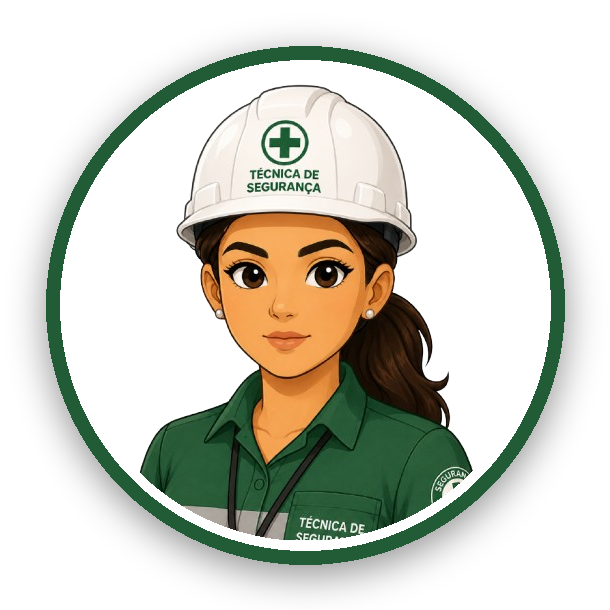
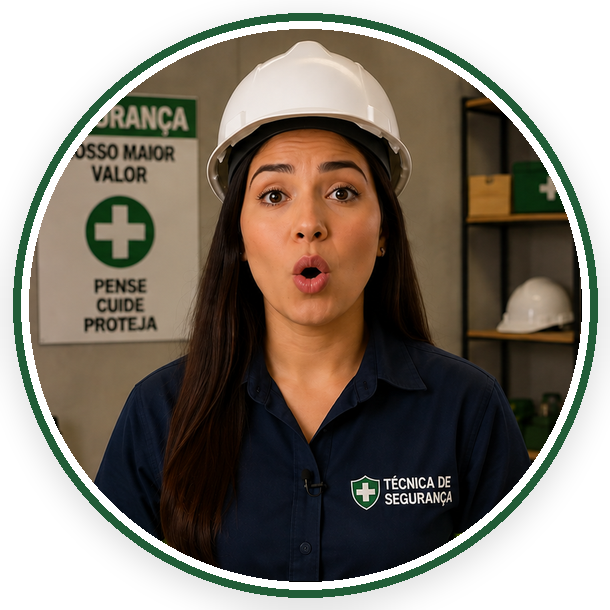
Atualiza mascote: novas fotos com mais expressões, alterna boca aberta

diff --git a/src/lib/render.ts b/src/lib/render.ts
@@ -32,6 +32,12 @@ const SILENCE_NOISE_THRESHOLD_DB = -30; // abaixo disso é considerado silêncio
 const SILENCE_MIN_DURATION = 0.15; // pausas menores que isso são ignoradas (evita "piscar" a boca em micro-pausas)
 const MOUTH_FLAP_SECONDS = 0.16; // ritmo de abre/fecha da boca ENQUANTO está falando
 
+// A cada quantos segundos (enquanto está falando) trocamos QUAL expressão de
+// boca aberta aparece (ver getMascotFrames em mascot.tsx — várias fotos com
+// expressões diferentes). Isso evita repetir sempre a mesma boca aberta e dá
+// mais vida ao mascote.
+const OPEN_FRAME_SWITCH_SECONDS = 2.4;
+
 export interface RenderScene {
   imagePath: string;
   audioPath: string;
@@ -112,7 +118,7 @@ function buildIsSpeakingExpr(silences: SilenceInterval[]): string {
  */
 export async function renderSceneClip(scene: RenderScene, index: number): Promise<string> {
   const outPath = path.join(os.tmpdir(), `scene-${index}-${nanoid(6)}.mp4`);
-  const { closedPath, openPath } = await getMascotFrames();
+  const { closedPath, openPaths } = await getMascotFrames();
 
   const duration = await getAudioDuration(scene.audioPath);
   const silences = await detectSilenceIntervals(scene.audioPath, duration);
@@ -122,34 +128,69 @@ export async function renderSceneClip(scene: RenderScene, index: number): Promis
   // MOUTH_FLAP_SECONDS). Fora dos trechos de fala, isSpeaking = 0 anula essa
   // parte e o resultado fica sempre "fechado".
   const flapToggle = `mod(floor(t/${MOUTH_FLAP_SECONDS})\\,2)`;
-  const openEnable = `(${isSpeaking})*eq(${flapToggle}\\,1)`;
-  const closedEnable = `1-(${openEnable})`;
+  const anyOpenEnable = `(${isSpeaking})*eq(${flapToggle}\\,1)`;
+  const closedEnable = `1-(${anyOpenEnable})`;
+
+  // Enquanto a boca está "aberta", alterna qual EXPRESSÃO aparece (várias
+  // fotos diferentes, ver mascot.tsx) a cada OPEN_FRAME_SWITCH_SECONDS, pra
+  // não repetir sempre a mesma boca aberta.
+  const openFrameIndexExpr = `mod(floor(t/${OPEN_FRAME_SWITCH_SECONDS})\\,${openPaths.length})`;
+  const openEnables = openPaths.map(
+    (_, i) => `(${anyOpenEnable})*eq(${openFrameIndexExpr}\\,${i})`
+  );
 
   const mascotX = `W-w-${MASCOT_MARGIN}`;
   const mascotY = `${MASCOT_MARGIN}`; // canto SUPERIOR direito
+
+  // Índices dos inputs do ffmpeg: 0 = imagem da cena, 1 = áudio,
+  // 2 = boca fechada, 3..3+N-1 = expressões de boca aberta.
+  const closedInputIdx = 2;
+  const openInputIdxs = openPaths.map((_, i) => 3 + i);
+
+  const scaleFilters =
+    `[${closedInputIdx}:v]scale=${MASCOT_DISPLAY_SIZE}:${MASCOT_DISPLAY_SIZE}[closed];` +
+    openInputIdxs
+      .map(
+        (idx, i) =>
+          `[${idx}:v]scale=${MASCOT_DISPLAY_SIZE}:${MASCOT_DISPLAY_SIZE}[open${i}];`
+      )
+      .join("");
+
+  const overlayFilters =
+    `[bg][closed]overlay=x=${mascotX}:y=${mascotY}:enable='gt(${closedEnable}\\,0)'[ov0];` +
+    openEnables
+      .map((enable, i) => {
+        const src = `[ov${i}]`;
+        const dst = i === openEnables.length - 1 ? "[vout]" : `[ov${i + 1}]`;
+        return `${src}[open${i}]overlay=x=${mascotX}:y=${mascotY}:enable='gt(${enable}\\,0)'${dst};`;
+      })
+      .join("");
 
   const filterComplex =
     // Fundo: normaliza para 1920x1080, faz upscale (headroom de nitidez) e
     // aplica um zoom lento e contínuo (Ken Burns) até 1.15x, centralizado.
     `[0:v]scale=1920:1080:force_original_aspect_ratio=decrease,pad=1920:1080:(ow-iw)/2:(oh-ih)/2,scale=2880:1620,` +
     `zoompan=z='min(zoom+0.0008,1.15)':d=1:x='iw/2-(iw/zoom/2)':y='ih/2-(ih/zoom/2)':s=1920x1080:fps=30[bg];` +
-    // Redimensiona os dois frames do mascote pro tamanho final da bolha.
-    `[2:v]scale=${MASCOT_DISPLAY_SIZE}:${MASCOT_DISPLAY_SIZE}[closed];` +
-    `[3:v]scale=${MASCOT_DISPLAY_SIZE}:${MASCOT_DISPLAY_SIZE}[open];` +
-    // Sobrepõe boca fechada ou boca aberta no canto superior direito —
-    // "aberta" só fica habilitada durante trechos com voz detectada.
-    `[bg][closed]overlay=x=${mascotX}:y=${mascotY}:enable='gt(${closedEnable}\\,0)'[tmp];` +
-    `[tmp][open]overlay=x=${mascotX}:y=${mascotY}:enable='gt(${openEnable}\\,0)'[vout]`;
+    // Redimensiona todos os frames do mascote (fechado + expressões abertas) pro tamanho final da bolha.
+    scaleFilters +
+    // Sobrepõe boca fechada, e depois cada expressão de boca aberta (cada
+    // uma só habilitada durante o trecho de fala que "sorteou" ela) no canto
+    // superior direito.
+    overlayFilters;
+
+  const command = ffmpeg()
+    .input(scene.imagePath)
+    .inputOptions(["-loop 1"])
+    .input(scene.audioPath)
+    .input(closedPath)
+    .inputOptions(["-loop 1"]);
+
+  for (const openPath of openPaths) {
+    command.input(openPath).inputOptions(["-loop 1"]);
+  }
 
   return new Promise((resolve, reject) => {
-    ffmpeg()
-      .input(scene.imagePath)
-      .inputOptions(["-loop 1"])
-      .input(scene.audioPath)
-      .input(closedPath)
-      .inputOptions(["-loop 1"])
-      .input(openPath)
-      .inputOptions(["-loop 1"])
+    command
       .complexFilter(filterComplex)
       .outputOptions([
         "-map [vout]",

diff --git a/src/lib/mascot.tsx b/src/lib/mascot.tsx
@@ -1,12 +1,16 @@
 // Mascote usado como bolha "falando" no canto do vídeo de treinamento.
 //
-// Diferente da primeira versão (desenhada por vetor via Satori), agora usa
-// duas artes reais fornecidas pelo usuário — uma técnica de segurança
-// cartoon, já com boca fechada e boca aberta — pré-processadas (recorte
+// Usa fotos reais da técnica de segurança, já pré-processadas (recorte
 // circular na resolução original + anel verde/branco + sombra) e salvas como
-// assets estáticos em public/mascot/. Não há geração em runtime: os dois
-// PNGs finais já saem prontos do repositório, então esta função só resolve
-// os caminhos (sem chamar Satori, sem chamar nenhuma API).
+// assets estáticos em public/mascot/. Não há geração em runtime: os PNGs
+// finais já saem prontos do repositório, então esta função só resolve os
+// caminhos (sem chamar Satori, sem chamar nenhuma API).
+//
+// Diferente da primeira versão (1 frame fechado + 1 frame aberto), agora
+// temos 1 frame de boca fechada e VÁRIOS frames de boca aberta com
+// expressões diferentes — o render alterna entre eles enquanto a pessoa
+// está falando, pra ficar mais natural (ver OPEN_FRAME_SWITCH_SECONDS em
+// render.ts), em vez de repetir sempre a mesma boca aberta.
 //
 // A "fala" é sincronizada com o áudio de verdade: src/lib/render.ts detecta
 // os trechos de silêncio (via `silencedetect` do FFmpeg) e só alterna pro
@@ -20,13 +24,17 @@ function mascotAssetPath(file: string): string {
 }
 
 /**
- * Retorna os caminhos dos dois frames estáticos do mascote (boca fechada /
- * boca aberta). Sem processamento em runtime — os PNGs já vêm prontos do
- * repositório (ver public/mascot/).
+ * Retorna o caminho do frame de boca fechada e os caminhos de todos os
+ * frames de boca aberta (expressões variadas). Sem processamento em
+ * runtime — os PNGs já vêm prontos do repositório (ver public/mascot/).
  */
-export async function getMascotFrames(): Promise<{ closedPath: string; openPath: string }> {
+export async function getMascotFrames(): Promise<{ closedPath: string; openPaths: string[] }> {
   return {
     closedPath: mascotAssetPath("mouth-closed.png"),
-    openPath: mascotAssetPath("mouth-open.png"),
+    openPaths: [
+      mascotAssetPath("mouth-open-1.png"),
+      mascotAssetPath("mouth-open-2.png"),
+      mascotAssetPath("mouth-open-3.png"),
+    ],
   };
 }
